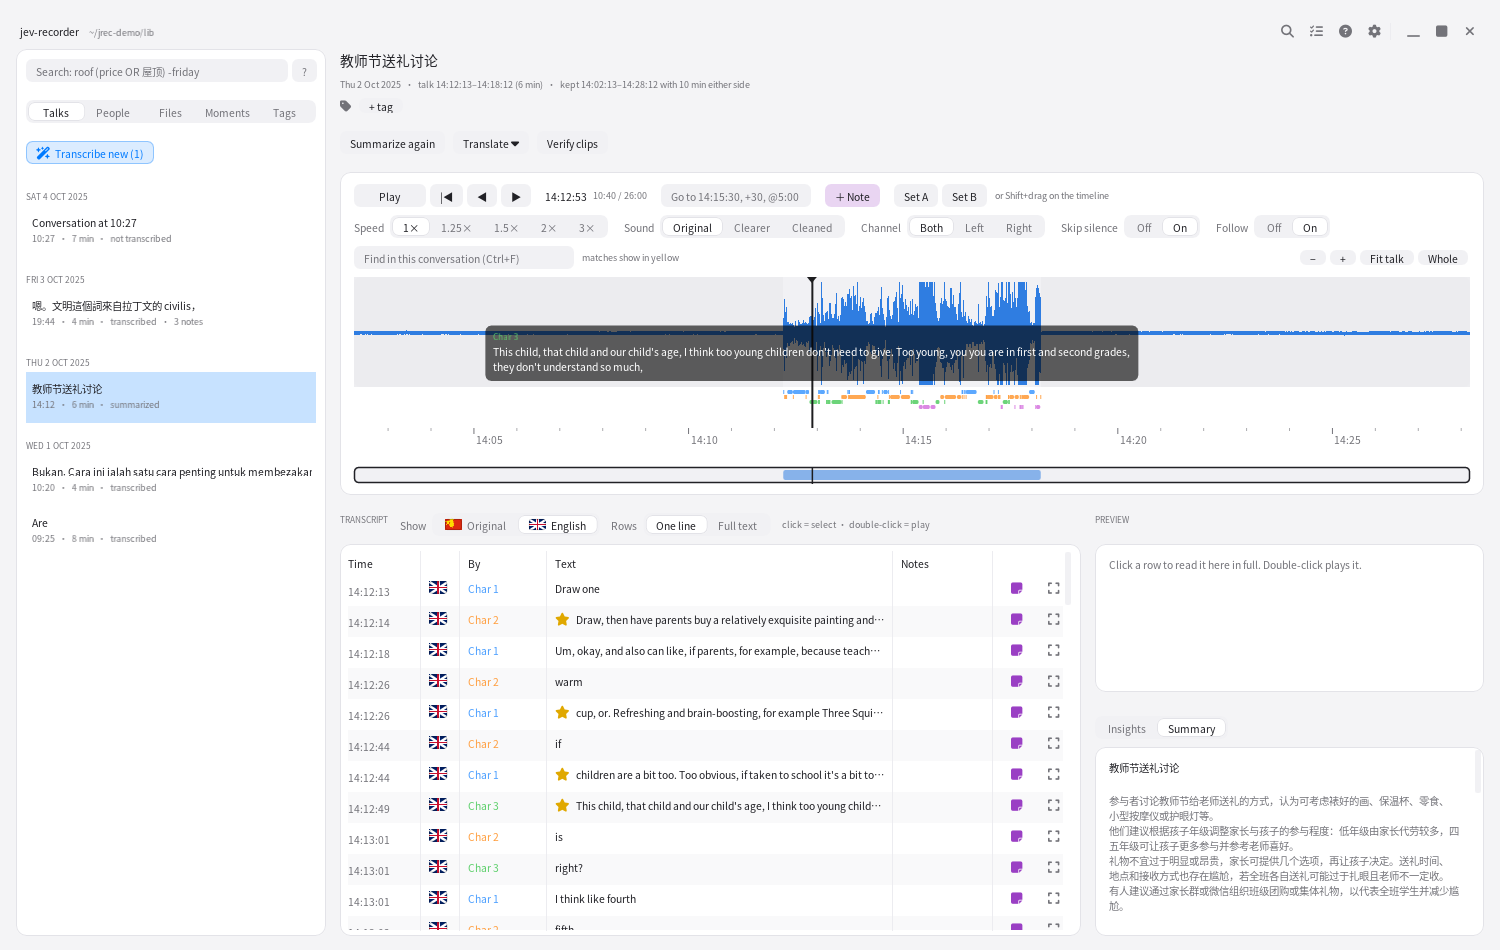
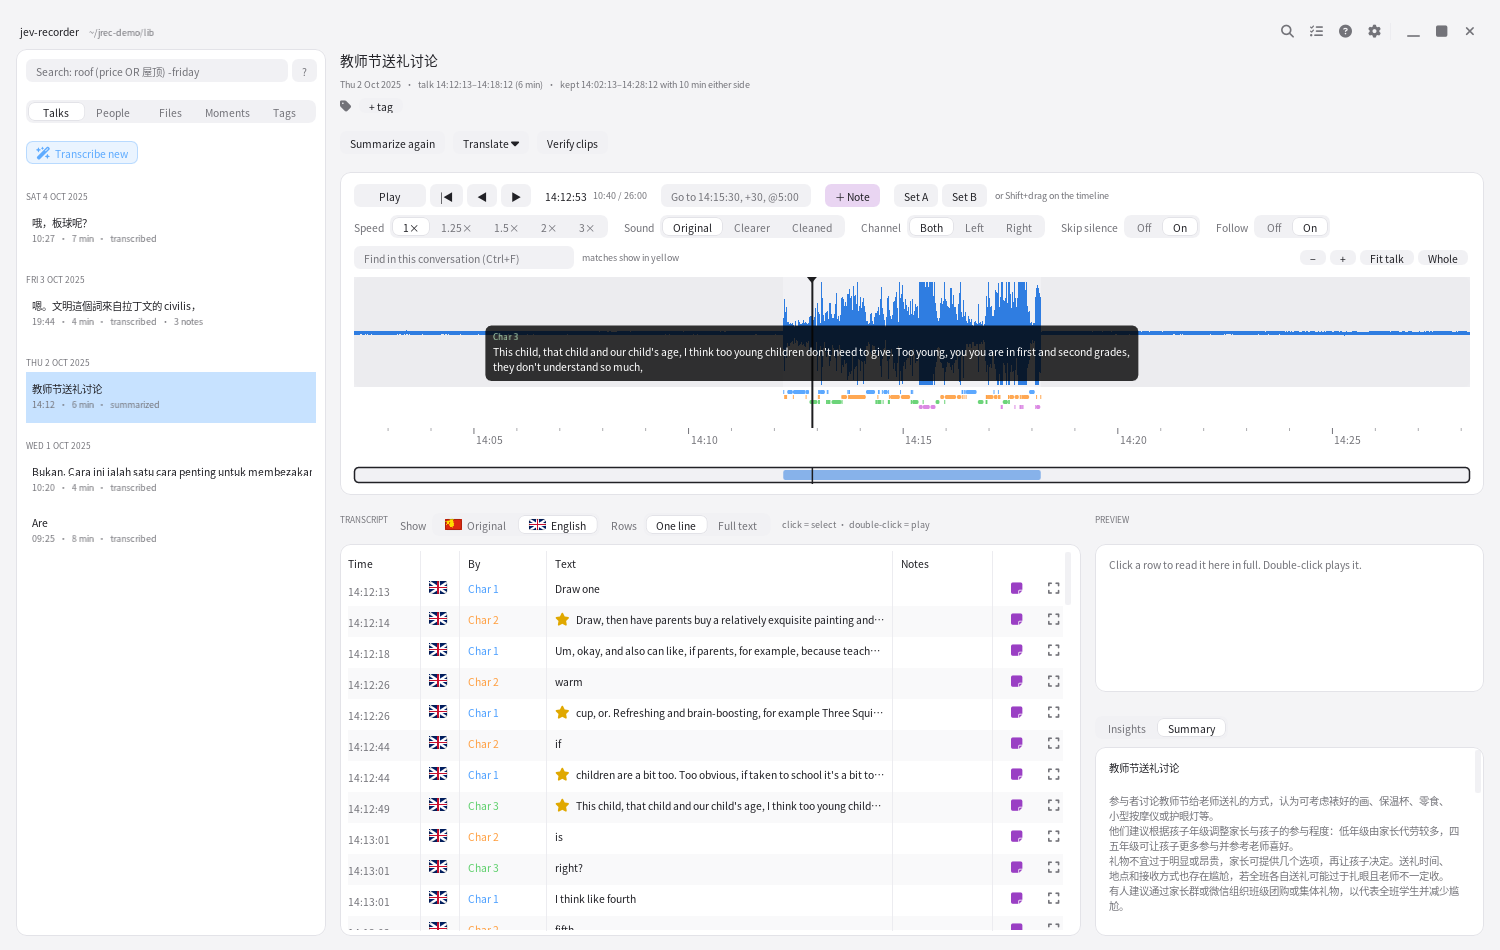
demo: ASCEND code-switching talk transcribed (2 speakers, 22.9 % MER); gallery shot; readable subtitle speaker names

Changed region(s): [[0.3067, 0.3358, 0.7667, 0.4274], [0.0307, 0.1526, 0.1227, 0.1832], [0.0307, 0.2137, 0.092, 0.2442]]

diff --git a/src/jrec/ui/timeline.py b/src/jrec/ui/timeline.py
@@ -325,7 +325,9 @@ def subtitle(app, c, dl, p0, w, wave_bot, cx):
     seg = c.segments[i]
     who = c.speaker(seg, i)
     spk = sorted({s.get("speaker") for s in c.segments if s.get("speaker")})
-    col = speaker_color(spk.index(seg["speaker"]) if seg.get("speaker") in spk else 0, 1.0)
+    col = imgui.color_convert_u32_to_float4(speaker_color(spk.index(seg["speaker"]) if seg.get("speaker") in spk else 0, 1.0))
+    col = imgui.ImVec4(col.x + (1 - col.x) * 0.6, col.y + (1 - col.y) * 0.6, col.z + (1 - col.z) * 0.6, 1.0)
+    col = imgui.get_color_u32(col)            # lifted toward white: readable on the dark caption in every theme
     fs = imgui.get_font_size()
     pad = 8.0
     max_w = min(w - 16, max(260.0, w * 0.6))
@@ -340,8 +342,8 @@ def subtitle(app, c, dl, p0, w, wave_bot, cx):
     bh = wrap.y + fs * 0.9 + pad * 1.5
     x = max(p0.x + 8, min(p0.x + w - 8 - bw, cx - bw / 2))
     y = wave_bot - bh - 6
-    dl.add_rect_filled(imgui.ImVec2(x, y), imgui.ImVec2(x + bw, y + bh), imgui.get_color_u32(th.hexc("#000000", 0.62)), 6.0)
-    dl.add_text(imgui.get_font(), fs * 0.82, imgui.ImVec2(x + pad, y + pad * 0.6), imgui.get_color_u32(col), who)
+    dl.add_rect_filled(imgui.ImVec2(x, y), imgui.ImVec2(x + bw, y + bh), imgui.get_color_u32(th.hexc("#000000", 0.80)), 6.0)
+    dl.add_text(imgui.get_font(), fs * 0.82, imgui.ImVec2(x + pad, y + pad * 0.6), col, who)
     dl.add_text(imgui.get_font(), fs, imgui.ImVec2(x + pad, y + pad * 0.6 + fs * 0.9),
                 imgui.get_color_u32(th.hexc("#ffffff")), text, wrap_width=max_w - 2 * pad)
 

diff --git a/src/jrec/llmserver.py b/src/jrec/llmserver.py
@@ -20,7 +20,6 @@ import time
 
 from .llm import LLMError, reachable
 
-MAX_USE = 0.80          # never plan a start that pushes unified memory above 80 %
 
 
 def managed(profile):

diff --git a/README.md b/README.md
@@ -72,8 +72,8 @@ Insights and the English translation come from a local LLM (Qwen3.8 Flash Next o
 | **Tokyo Night.** Ctrl+P: "gift" finds lines of the Mandarin meeting through their English translation. | **Tasks and logs** (Ctrl+J): progress, time left, Pause / Stop / Cancel / Retry. |
 | ![Settings in Japanese](docs/gallery/settings-ja.png) | ![Help, Shortcuts tab, in Korean](docs/gallery/help-ko.png) |
 | **日本語.** Settings: one setting per row, changes save at once. | **한국어.** Help › Shortcuts, generated from the command list. |
-| ![The whole app in Simplified Chinese](docs/gallery/zh-cn.png) | |
-| **简体中文.** Dates, labels and Help follow the interface language; recordings are never changed. | |
+| ![The whole app in Simplified Chinese](docs/gallery/zh-cn.png) | ![A real Hong Kong conversation that switches between Mandarin and English](docs/gallery/code-switching.png) |
+| **简体中文.** Dates, labels and Help follow the interface language; recordings are never changed. | **Code-switching.** A real, unscripted Hong Kong chat (ASCEND): each row gets its own language flag. Qwen3-ASR scored 22.9 % mixed error rate against the ASCEND reference (Chinese characters + English words). |
 
 ### Demo library
 
@@ -84,7 +84,7 @@ Insights and the English translation come from a local LLM (Qwen3.8 Flash Next o
 | 2025-10-01 09:00, 120 min | [AMI](https://groups.inf.ed.ac.uk/ami/corpus/) (CC BY 4.0) + [FLEURS](https://huggingface.co/datasets/google/fleurs) Malay | English meeting, then a quieter Malay talk |
 | 2025-10-02 14:00 | [AliMeeting](https://www.openslr.org/119/) R8003 (CC BY-SA 4.0) | 6 min of a 4-person Mandarin meeting |
 | 2025-10-03 19:30 | [FLEURS](https://huggingface.co/datasets/google/fleurs) Cantonese (CC BY 4.0) | 4 min of read Cantonese |
-| 2025-10-04 10:15 | [ASCEND](https://huggingface.co/datasets/CAiRE/ASCEND) session 2 (CC BY-SA 4.0) | 7 min of a real, unscripted Hong Kong chat that switches between Mandarin and English |
+| 2025-10-04 10:15 | [ASCEND](https://huggingface.co/datasets/CAiRE/ASCEND) session 2 (CC BY-SA 4.0) | 7 min of a real, unscripted Hong Kong chat that switches between Mandarin and English; 2 speakers found, 22.9 % mixed error rate |
 
 Each recording sits between 12 and 22 minutes of room tone, like a real recorder file, so the app has to find the
 conversation and keep 10 minutes of raw audio on each side. ASCEND sessions are rebuilt with their real timing

diff --git a/CLAUDE.md b/CLAUDE.md
@@ -42,8 +42,8 @@ Untranslated strings: JREC_I18N_MISSING=/tmp/miss.txt jrec ui --ui-script "lang:
 `jrec ui` is single-window per library (instance.py); --ui-script runs and JREC_MULTI_INSTANCE=1 skip the check.
 
 ## Open items (2026-10-03)
-- Demo 2025-10-04 (ASCEND, real HK Mandarin–English chat) is cut but not transcribed: needs ~6 GiB and memory
-  was at 92 % (TensorFold holds 85 GiB). Run `jrec transcribe` on it when memory allows; compare with ses2.json.
+- Demo 2025-10-04 (ASCEND, real HK Mandarin–English chat) transcribed: 89 rows, 2 speakers, MER 22.9 % vs ses2.json
+  (ses2[60 s:480 s]). Not yet summarized (a summary cold-boots TensorFold, ~88 GiB).
 - Vault: age per-file, password + recovery key, lossless only; **waiting for the user's OK to build**.
 - Segments split mid-sentence at the 25 s limit; merge at sentence boundaries.
 - Tamil LID → Whisper fallback; Sony track-mark timestamps (needs a real TX660 file); vLLM backend.
